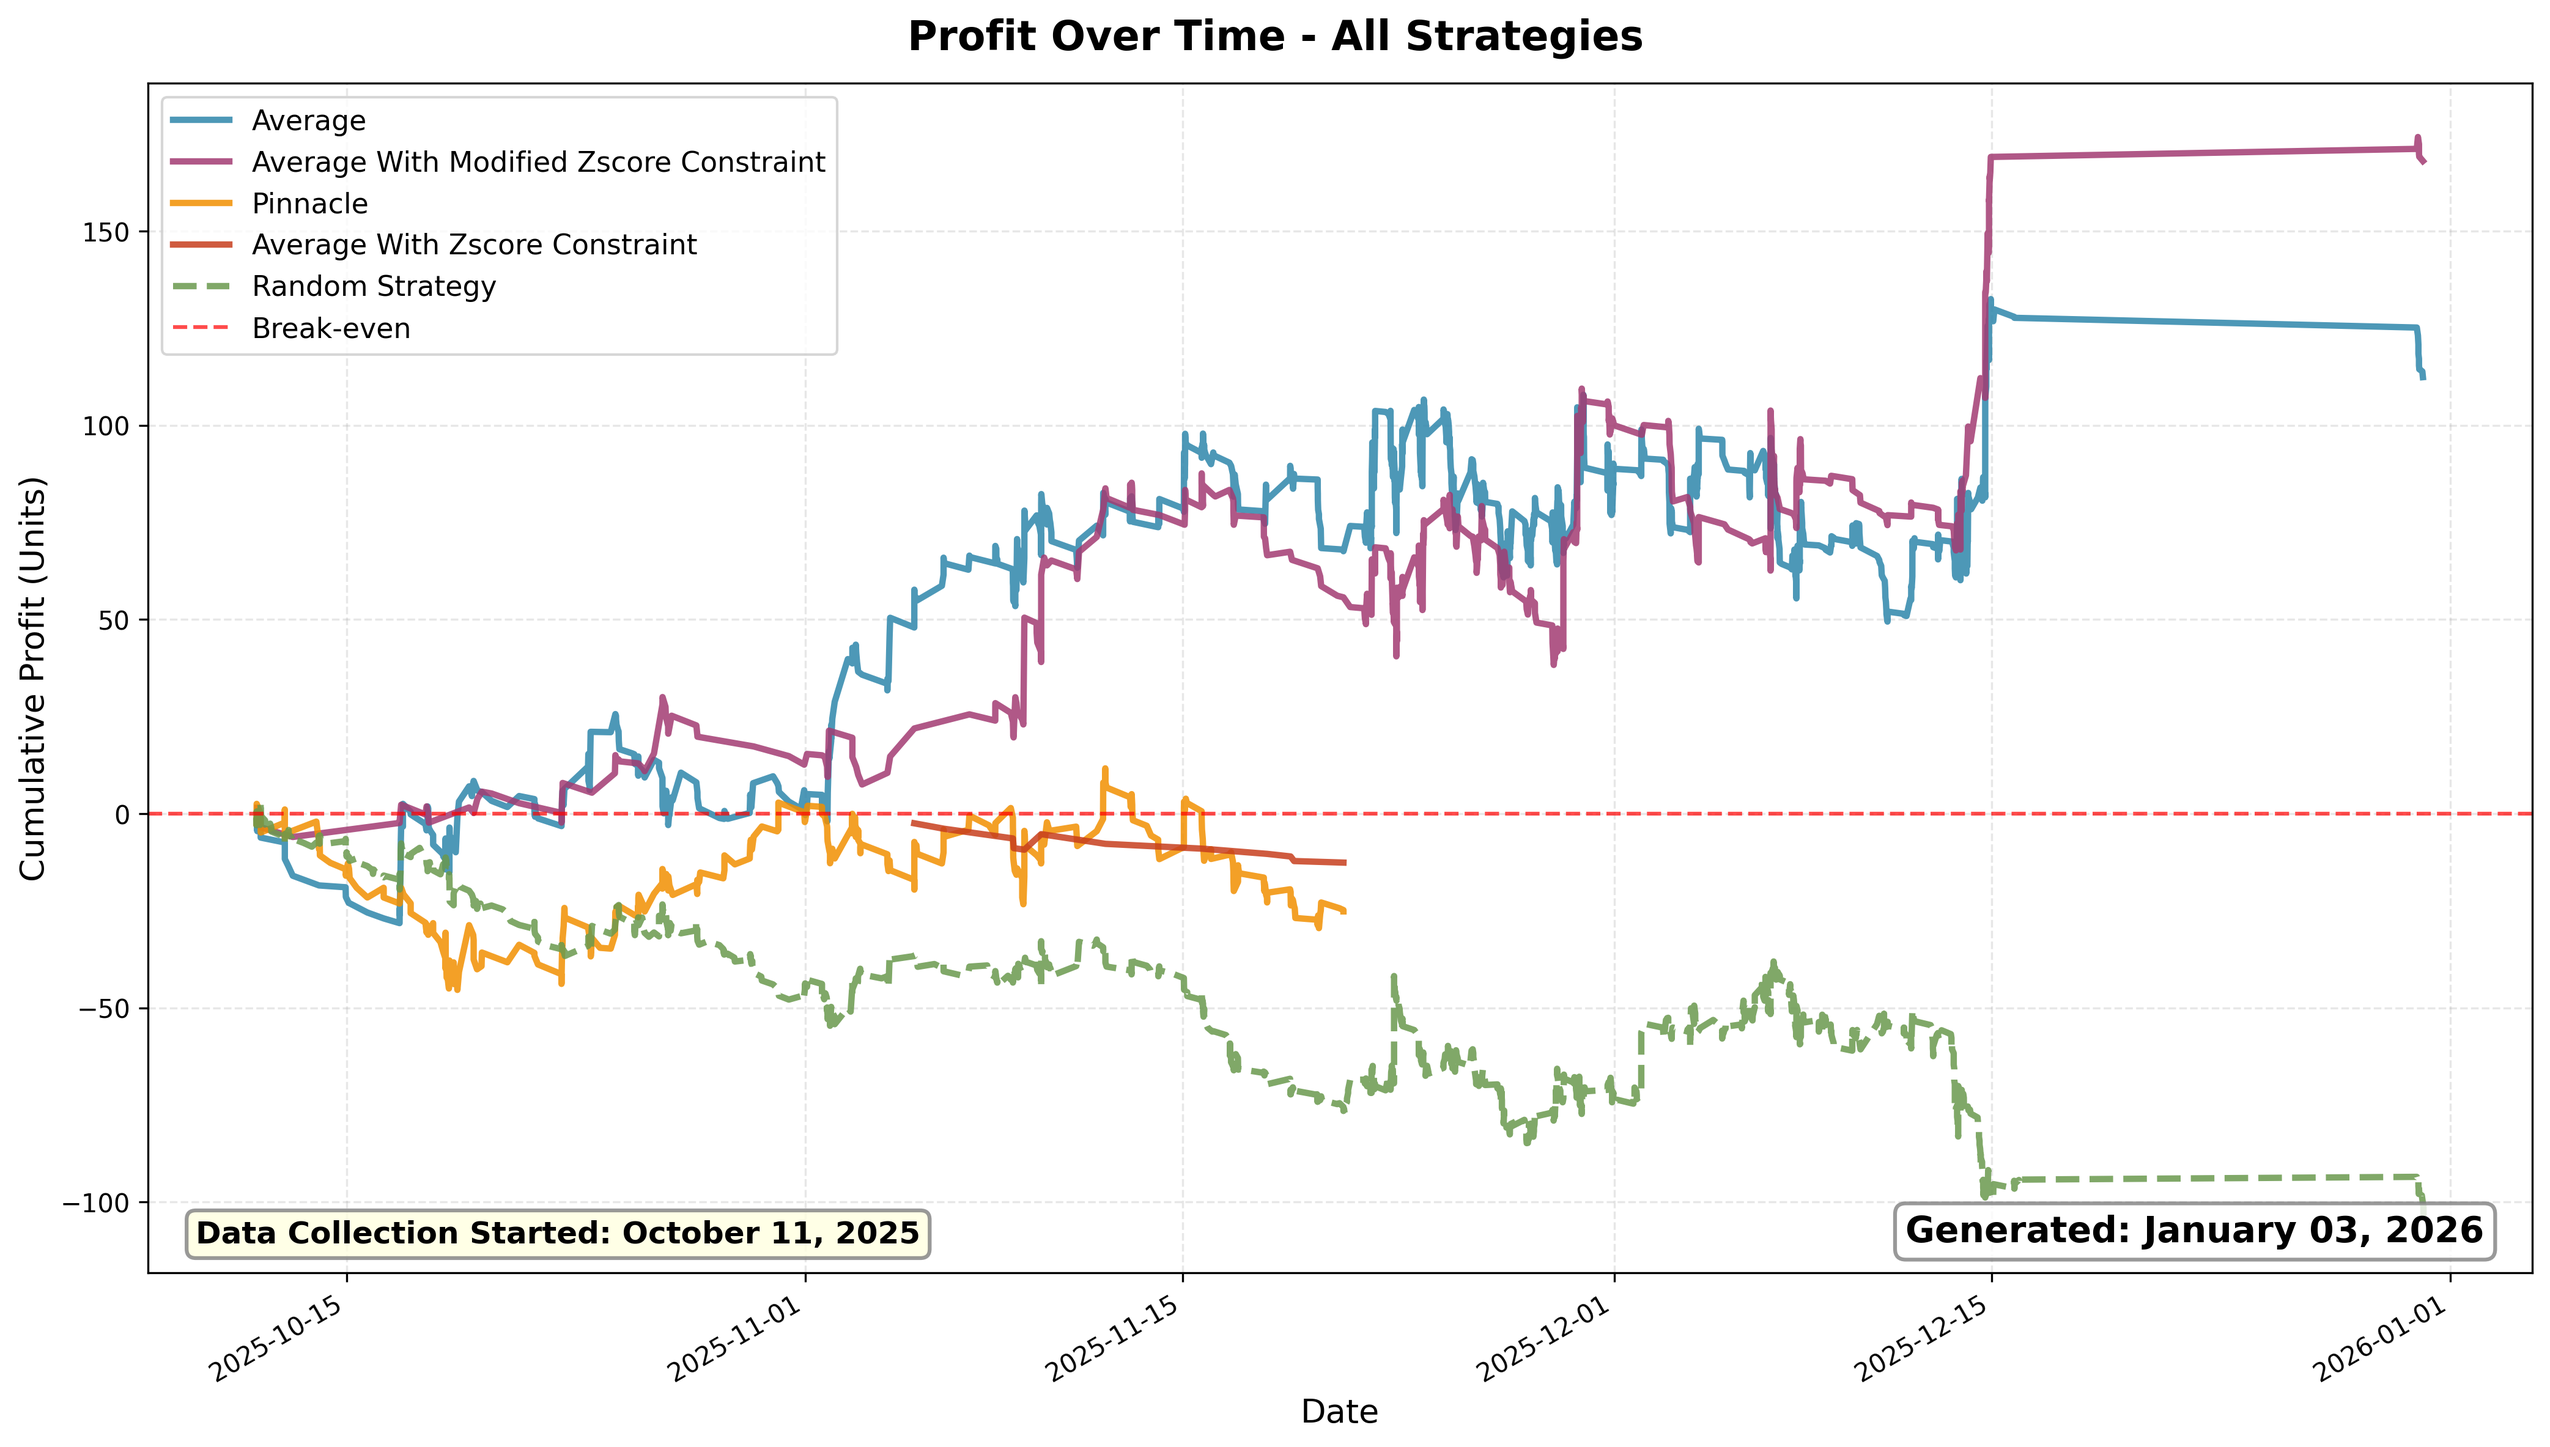
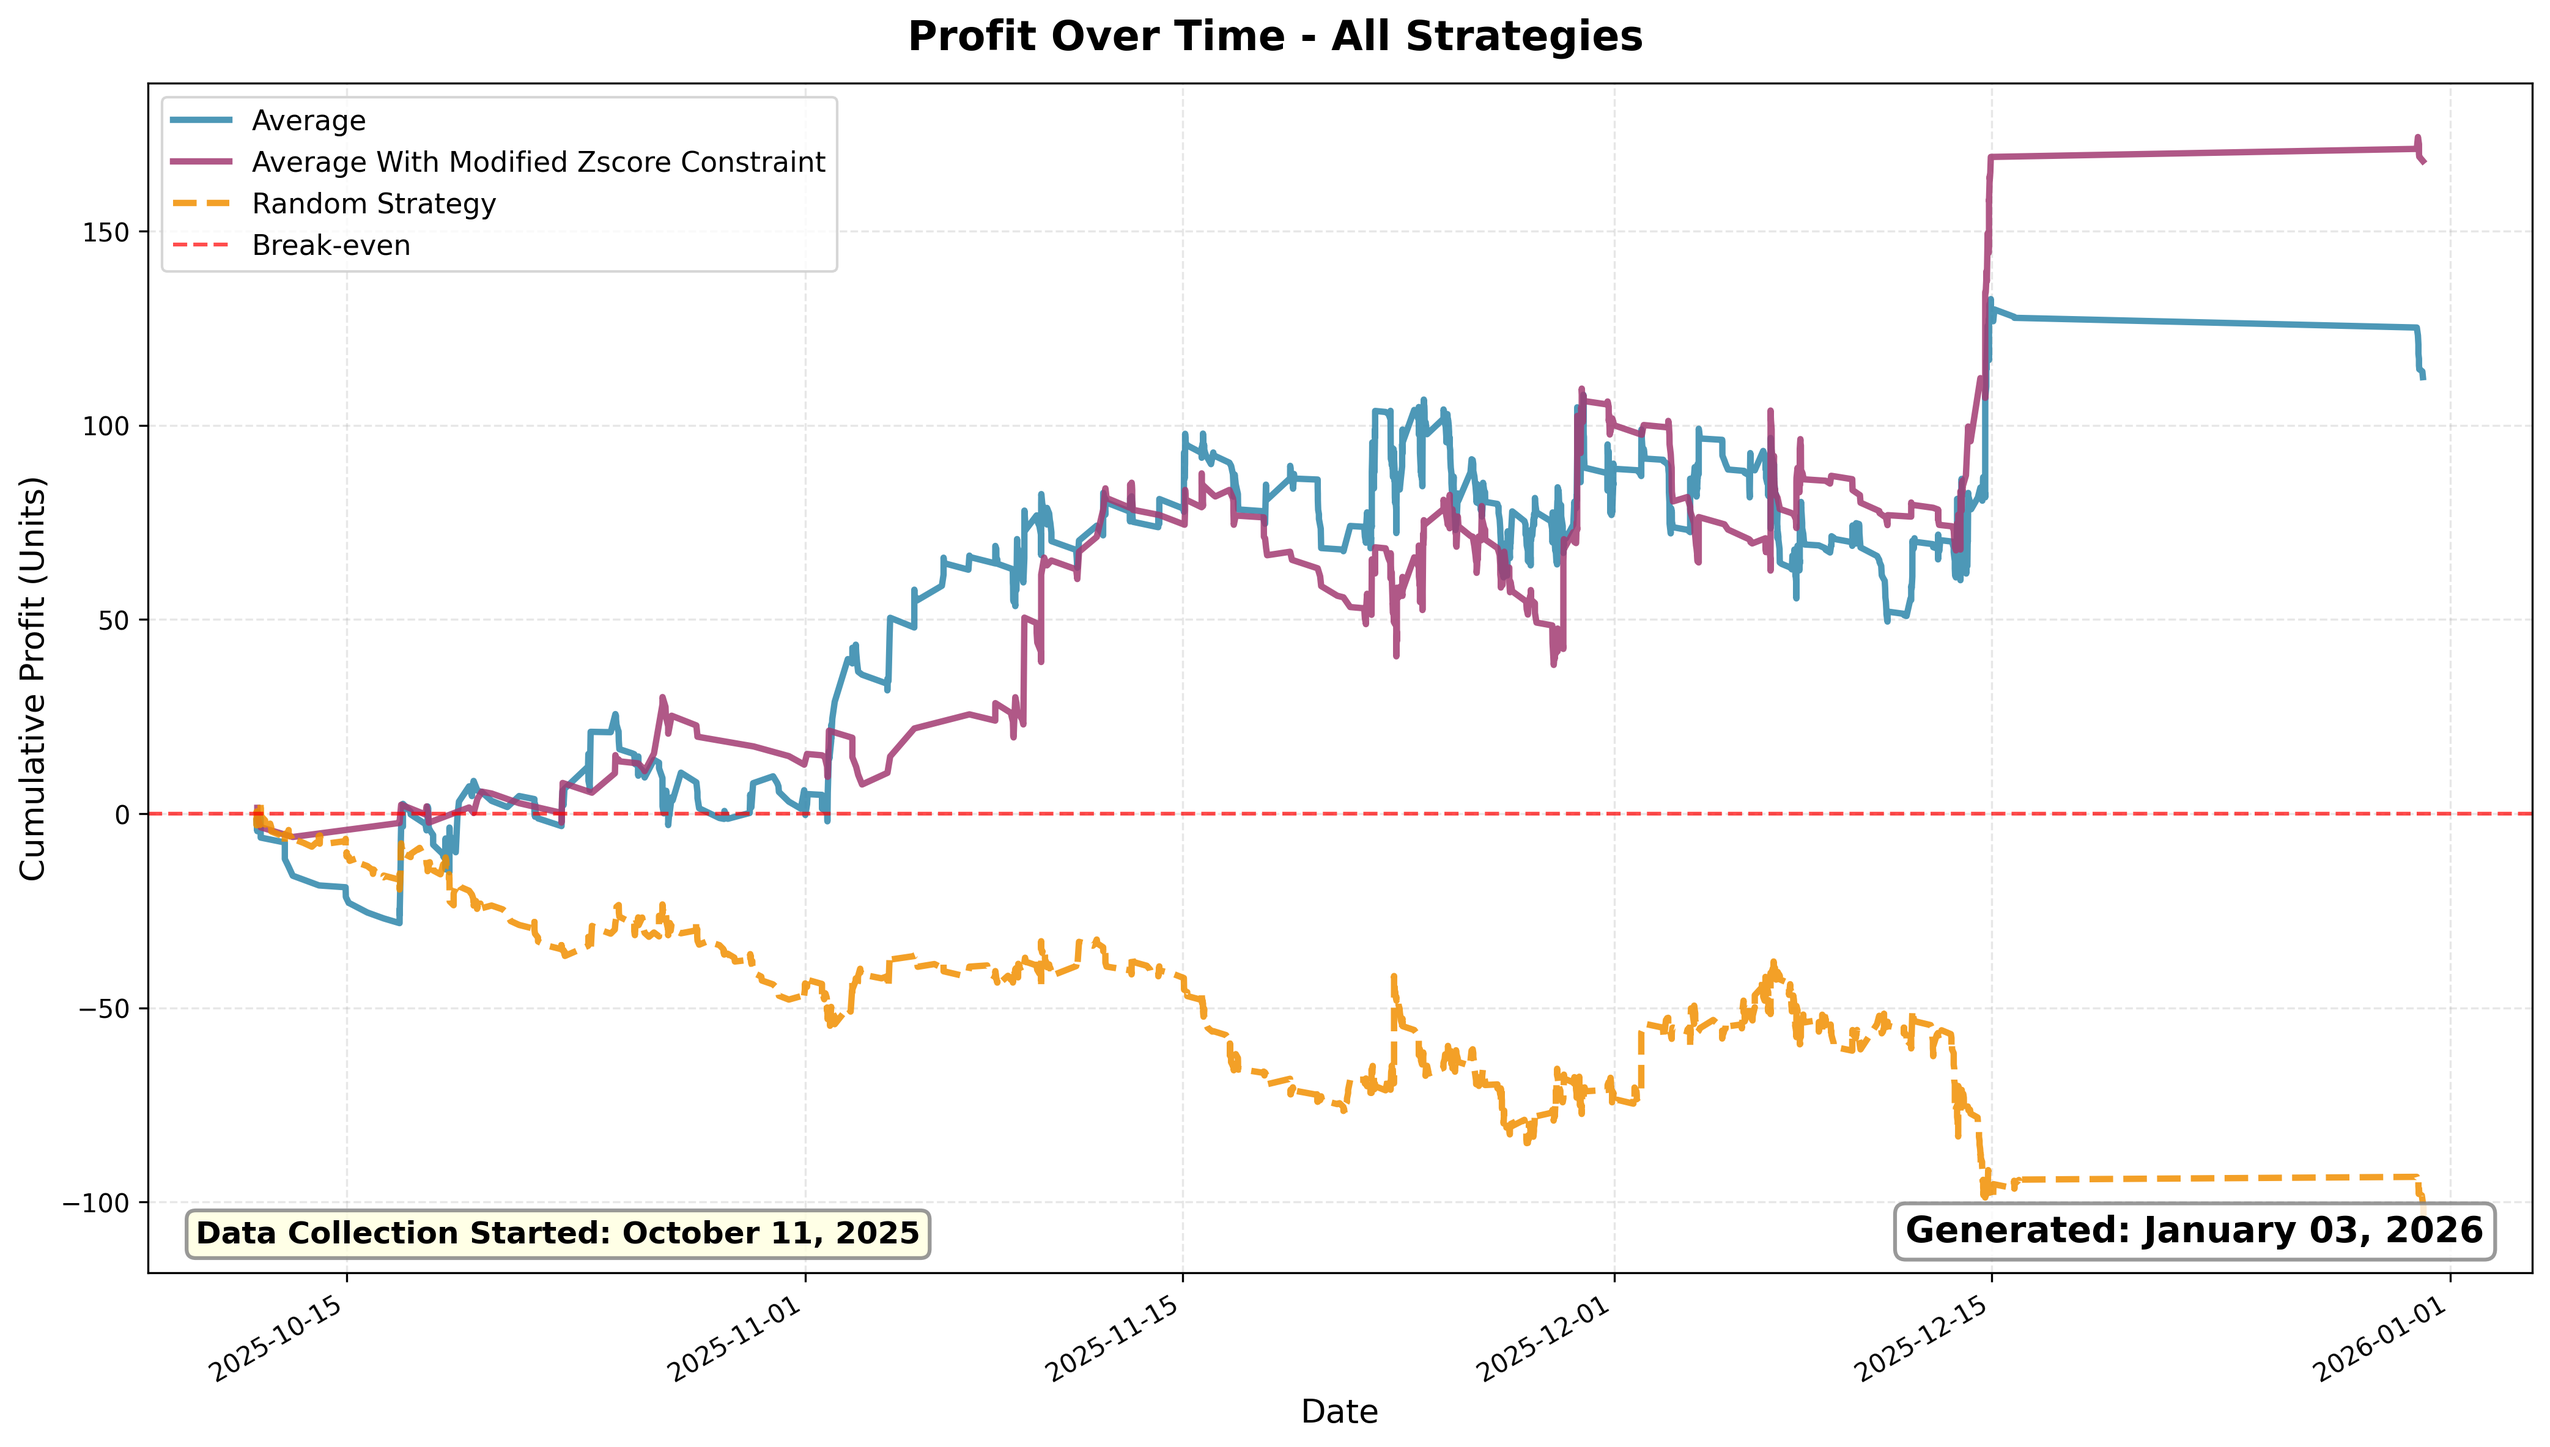
get rid of old strategies code

diff --git a/analysis/bins.py b/analysis/bins.py
@@ -17,36 +17,21 @@ class BettingStrategy:
 STRATEGIES = [
     BettingStrategy(
         "Average NC",
-        "codebase/data/master_nc_avg_full.csv",
+        "data/master_nc_avg_full.csv",
         "Best Odds",
         "Fair Odds Avg",
         "Expected Value",
     ),
     BettingStrategy(
         "Modified Zscore NC",
-        "codebase/data/master_nc_mod_zscore_full.csv",
+        "data/master_nc_mod_zscore_full.csv",
         "Best Odds",
         "Fair Odds Avg",
         "Expected Value",
         "Modified Z Score",
     ),
     BettingStrategy(
-        "Pinnacle NC",
-        "codebase/data/master_nc_pin_full.csv",
-        "Best Odds",
-        "Pinnacle Fair Odds",
-        "Expected Value",
-    ),
-    BettingStrategy(
-        "Zscore NC",
-        "codebase/data/master_nc_zscore_full.csv",
-        "Best Odds",
-        "Fair Odds Avg",
-        "Expected Value",
-        "Z Score",
-    ),
-    BettingStrategy(
-        "Random NC", "codebase/data/master_nc_random_full.csv", "Best Odds"
+        "Random NC", "data/master_nc_random_full.csv", "Best Odds"
     ),
 ]
 

diff --git a/analysis/roi.py b/analysis/roi.py
@@ -17,36 +17,21 @@ class BettingStrategy:
 STRATEGIES = [
     BettingStrategy(
         "Average NC",
-        "codebase/data/master_nc_avg_full.csv",
+        "data/master_nc_avg_full.csv",
         "Best Odds",
         "Fair Odds Avg",
         "Expected Value",
     ),
     BettingStrategy(
         "Modified Zscore NC",
-        "codebase/data/master_nc_mod_zscore_full.csv",
+        "data/master_nc_mod_zscore_full.csv",
         "Best Odds",
         "Fair Odds Avg",
         "Expected Value",
         "Modified Z Score",
     ),
     BettingStrategy(
-        "Pinnacle NC",
-        "codebase/data/master_nc_pin_full.csv",
-        "Best Odds",
-        "Pinnacle Fair Odds",
-        "Expected Value",
-    ),
-    BettingStrategy(
-        "Zscore NC",
-        "codebase/data/master_nc_zscore_full.csv",
-        "Best Odds",
-        "Fair Odds Avg",
-        "Expected Value",
-        "Z Score",
-    ),
-    BettingStrategy(
-        "Random NC", "codebase/data/master_nc_random_full.csv", "Best Odds"
+        "Random NC", "data/master_nc_random_full.csv", "Best Odds"
     ),
 ]
 

diff --git a/analysis/profit_over_time/profit_over_time.py b/analysis/profit_over_time/profit_over_time.py
@@ -35,21 +35,6 @@ STRATEGIES = [
         "Modified Z Score",
     ),
     BettingStrategy(
-        "Pinnacle",
-        "data/master_nc_pin_full.csv",
-        "Best Odds",
-        "Pinnacle Fair Odds",
-        "Expected Value",
-    ),
-    BettingStrategy(
-        "Average With Zscore Constraint",
-        "data/master_nc_zscore_full.csv",
-        "Best Odds",
-        "Fair Odds Avg",
-        "Expected Value",
-        "Z Score",
-    ),
-    BettingStrategy(
         "Random Strategy", "data/master_nc_random_full.csv", "Best Odds"
     ),
 ]
